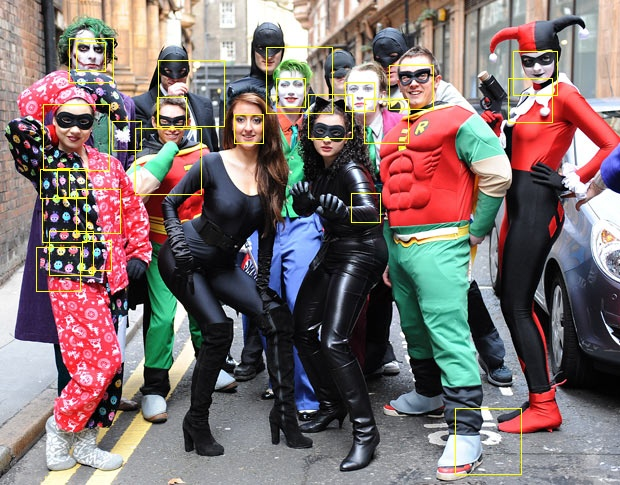
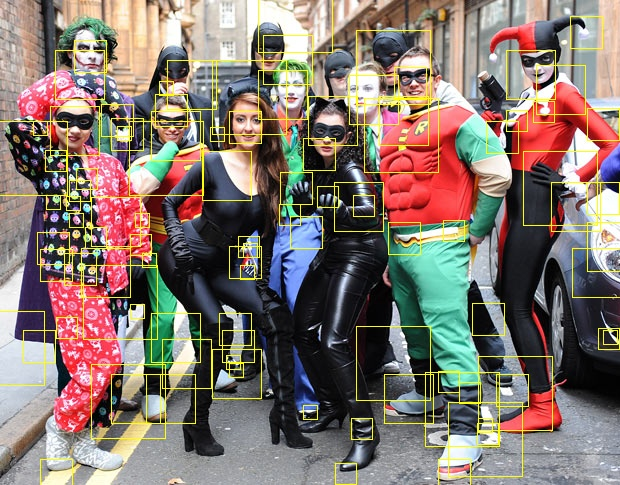
Variable test dingetjes

diff --git a/Prac4/src/main.cpp b/Prac4/src/main.cpp
@@ -18,6 +18,11 @@
 #include "FaceDetector.h"
 #include "MySVM.h"
 
+
+/* Toggles */
+#define _TestVariables
+
+
 using namespace nl_uu_science_gmt;
 using namespace cv;
 namespace fs = boost::filesystem;
@@ -174,54 +179,125 @@ int main(int argc, char** argv) {
 		return EXIT_FAILURE;
 	}
 
+#ifndef _TestVariables
 	cv::namedWindow("Display");
+#endif
 	cv::Rect modelWindow(76, 90, 100, 100);
-	cv::Size resize(20, 20);
-	FaceDetector detector(pathPositivesToUse, pathUsableNegative, resize, 1, modelWindow);
 
-	cv::Mat trainingSamples, validationSamples;
-	//Load the images, normalized, and get the negative offsets in the training and validation sets, respectively
-	std::vector<int> offsets = detector.load(trainingSamples, validationSamples, true, true);
+	int modelSize = 20;
+	double threshold = 1;
+	float scaleFactor = 1.5;
 
-	//Train the model
-	MySVM svm;
-	SVMModel svmModel;
-	detector.svmFaces(trainingSamples, validationSamples, svm, offsets, svmModel);
+#ifdef _TestVariables
+	cv::FileStorage variableTestResults("VariableResults.xml", cv::FileStorage::WRITE);
+	for (modelSize = 10; modelSize <= 40; modelSize += 10) {
+		for (threshold = 0; threshold <= 2; threshold += 0.5) {
+			for (scaleFactor = 1.5; scaleFactor <= 3; scaleFactor += 0.5) {
+				variableTestResults << "modelSize" << modelSize;
+				variableTestResults << "threshold" << std::to_string(threshold);
+				variableTestResults << "scaleFactor" << std::to_string(scaleFactor);
+				std::cout << "Testing modelSize = " << modelSize << ", threshold = " << threshold << ", scaleFactor = " << scaleFactor << std::endl;
+#endif
 
-	for (int imgidx = 1; imgidx <= 7; imgidx++) {
-		//There is no img3.jpg
-		if (imgidx == 3) imgidx++;
-		std::string pathSegment = imgidx == 7 ? "-test.png" : std::to_string(imgidx) + ".jpg";
+				cv::Size resize(modelSize, modelSize);
+				FaceDetector detector(pathPositivesToUse, pathUsableNegative, resize, 1, modelWindow);
 
-		//Create the pyramid from the source image
-		ImagePyramid pyramid;
-		cv::Mat img = cv::imread(std::string("data\\Test\\img") + pathSegment, CV_LOAD_IMAGE_GRAYSCALE);
-		detector.createPyramid(1.5, img, pyramid);
+				cv::Mat trainingSamples, validationSamples;
+				//Load the images, normalized, and get the negative offsets in the training and validation sets, respectively
+				std::vector<int> offsets = detector.load(trainingSamples, validationSamples, true, true);
 
-		//Decide the PDF per layer
-		Size size = img.size();
-		const double threshold = 1; //todo: kies goede threshold
-		CandidateVec candidates;
-		for (int l = 0; l < pyramid.size(); l++) {
-			detector.convolve(svmModel, svm, pyramid[l]);
-			detector.positionalContent(pyramid[l], threshold, candidates);
+				//Train the model
+				MySVM svm;
+				SVMModel svmModel;
+				detector.svmFaces(trainingSamples, validationSamples, svm, offsets, svmModel);
+
+				int finalImage = 7;
+
+#ifdef _TestVariables
+				finalImage = 6;
+#endif
+				for (int imgidx = 1; imgidx <= finalImage; imgidx++) {
+					//There is no img3.jpg
+					if (imgidx == 3) imgidx++;
+					std::string pathSegment = imgidx == 7 ? "-test.png" : std::to_string(imgidx) + ".jpg";
+
+					//Create the pyramid from the source image
+					ImagePyramid pyramid;
+					cv::Mat img = cv::imread(std::string("data\\Test\\img") + pathSegment, CV_LOAD_IMAGE_GRAYSCALE);
+					detector.createPyramid(scaleFactor, img, pyramid);
+
+					//Decide the PDF per layer
+					Size size = img.size();
+					CandidateVec candidates;
+					for (int l = 0; l < pyramid.size(); l++) {
+						detector.convolve(svmModel, svm, pyramid[l]);
+						detector.positionalContent(pyramid[l], threshold, candidates);
+					}
+					detector.nonMaximaSuppression(size, candidates);
+
+					// draw final candidates on the image
+					img = imread(std::string("data\\Test\\img") + pathSegment);
+					for (int i = 0; i < candidates.size(); i++) {
+						rectangle(img, candidates[i].img_roi, cv::Scalar(0, 255, 255), 1, 8, 0);
+					}
+					imwrite(std::string("TestResults") + pathSegment, img);
+
+					if (img.cols > 900 || img.rows > 900) {
+						cv::resize(img, img, cv::Size(img.cols / 2, img.rows / 2));
+					}
+
+					//The last one doesn't have ground truth data
+					if (imgidx != 7) {
+						//Find true/false positives
+						FileStorage fs(std::string("data\\Test\\img") + pathSegment.replace(pathSegment.size() - 3, 3, "xml"), FileStorage::READ);
+						vector<int> groundTruth;
+						fs["ground_truth"] >> groundTruth;
+						int truePositives = 0, falseNegatives = 0, guesses = candidates.size();
+
+						for (int i = 0; i < groundTruth.size(); i += 4) {
+							bool faceFound = false;
+							cv::Rect faceBox(groundTruth[i], groundTruth[i + 1], groundTruth[i + 2], groundTruth[i + 3]);
+							for (int c = 0; c < candidates.size(); c++) {
+								cv::Rect box = candidates[c].img_roi & faceBox;
+								//Check whether the union/overlap between our match and the ground truth match is a big enoug part of both
+								//We'll call that a TP
+								if (box.area() > 0.5 * candidates[c].img_roi.area() & box.area() > 0.5 * faceBox.area()) {
+									truePositives++;
+									faceFound = true;
+									//We stop checking against a candidate if it has been a TP for a match already
+									candidates.erase(candidates.begin() + c);
+									break;
+								}
+							}
+							if (!faceFound) {
+								falseNegatives++;
+							}
+						}
+						std::cout << "Out of " << (falseNegatives + truePositives) << " positives, we found " << truePositives << " with a total of " << guesses << " guesses." << std::endl;
+
+#ifdef _TestVariables
+						// Write precision, recall and the F-score for the current configuration
+						float precision = (float)truePositives / guesses;
+						float recall = (float)truePositives / (truePositives + falseNegatives);
+						float fScore = 2 * precision * recall / (precision + recall);
+						variableTestResults << "Precision" + std::to_string(imgidx) << std::to_string(precision);
+						variableTestResults << "Recall" + std::to_string(imgidx) << std::to_string(recall);
+						variableTestResults << "F-score" + std::to_string(imgidx) << std::to_string(fScore);
+#endif
+					}
+
+#ifndef _TestVariables
+					std::cout << "Showing img" << pathSegment.replace(pathSegment.size() - 3, 3, "jpg") << ". Press any key to continue..." << std::endl;
+					imshow("Display", img);
+					waitKey();
+#endif
+				}
+
+#ifdef _TestVariables
+			}
 		}
-		detector.nonMaximaSuppression(size, candidates);
-
-		// draw final candidates on the image
-		img = imread(std::string("data\\Test\\img") + pathSegment);
-		for (int i = 0; i < candidates.size(); i++) {
-			rectangle(img, candidates[i].img_roi, cv::Scalar(0, 255, 255), 1, 8, 0);
-		}
-		imwrite(std::string("TestResults") + pathSegment, img);
-		
-		if (img.cols > 900 || img.rows > 900) {
-			cv::resize(img, img, cv::Size(img.cols / 2, img.rows / 2));
-		}
-		std::cout << "Showing " << pathSegment << ". Press any key to continue..." << std::endl;
-		imshow("Display", img);
-		waitKey();
 	}
+#endif
 
 	return EXIT_SUCCESS;
 }

diff --git a/Prac4/src/FaceDetector.cpp b/Prac4/src/FaceDetector.cpp
@@ -5,9 +5,6 @@
 *      Authors : Erik and Wendy
 */
 
-/* Toggles */
-//#define _FindBestC
-
 #include <iostream>
 
 #include <boost/filesystem.hpp>
@@ -18,6 +15,11 @@
 
 #include "FaceDetector.h"
 #include "MySVM.h"
+
+
+/* Toggles */
+//#define _FindBestC
+
 
 namespace fs = boost::filesystem;
 
@@ -250,14 +252,13 @@ namespace nl_uu_science_gmt
 
 		//Visualise the weights vector
 		cv::Mat reshapedWeights = model.weights.reshape(1, m_model_size.height);
-		cv::imshow("Display", (reshapedWeights * 1.6) + 0.6);
-		std::cout << std::endl << "You can now view the visualisation of W. Press any key to continue..." << std::endl;
+		//cv::imshow("Display", (reshapedWeights * 1.6) + 0.6);
 		{
 			cv::Mat temp = ((reshapedWeights * 1.6) + 0.6) * 255;
 			temp.convertTo(temp, CV_8U);
 			cv::imwrite("FaceReconstruction.png", temp);
 		}
-		cv::waitKey();
+		std::cout << std::endl << "The visualisation of W has been saved to the project folder..." << std::endl;
 
 		//Save the filter engine
 		int channels = 1; // Pixel model
@@ -374,6 +375,5 @@ namespace nl_uu_science_gmt
 				n--;
 			}
 		}
-		std::cout << keep << " possible faces found..." << std::endl;
 	}
 }
